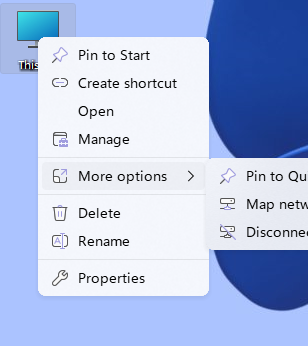
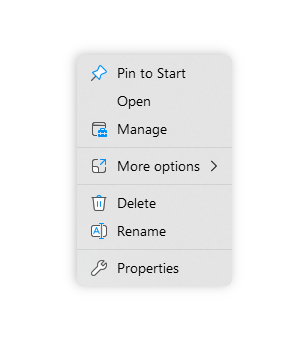
updated context menu preview images
Former-commit-id: fd9f14aacfea0d4480a4fac31685b1ab8487de43

diff --git a/Rectify11Installer/Pages/CMenuPage.Designer.cs b/Rectify11Installer/Pages/CMenuPage.Designer.cs
@@ -52,9 +52,9 @@
 			this.darkAwareLabel1.Text = resources.GetString("epTitle");
 
 
-			this.PrevImg.BackgroundImage = global::Rectify11Installer.Properties.Resources._11start;
+			this.PrevImg.BackgroundImage = global::Rectify11Installer.Properties.Resources._5L;
 			this.PrevImg.BackgroundImageLayout = System.Windows.Forms.ImageLayout.Zoom;
-			this.PrevImg.Location = new System.Drawing.Point(190, 53);
+			this.PrevImg.Location = new System.Drawing.Point(170, 53);
 			this.PrevImg.Name = "PrevImg";
 			this.PrevImg.Size = new System.Drawing.Size(160, 200);
 			this.PrevImg.TabIndex = 0;
@@ -129,12 +129,12 @@
 			// 
 			// CMenuPage
 			// 
+			this.Controls.Add(this.PrevImg);
 			this.Controls.Add(this.Rad5);
 			this.Controls.Add(this.Rad4);
 			this.Controls.Add(this.Rad3);
 			this.Controls.Add(this.Rad2);
 			this.Controls.Add(this.Rad1);
-			this.Controls.Add(this.PrevImg);
 			this.Controls.Add(this.darkAwareLabel1);
 			this.Name = "EPPage";
 			this.SideImage = global::Rectify11Installer.Properties.Resources.menus;
